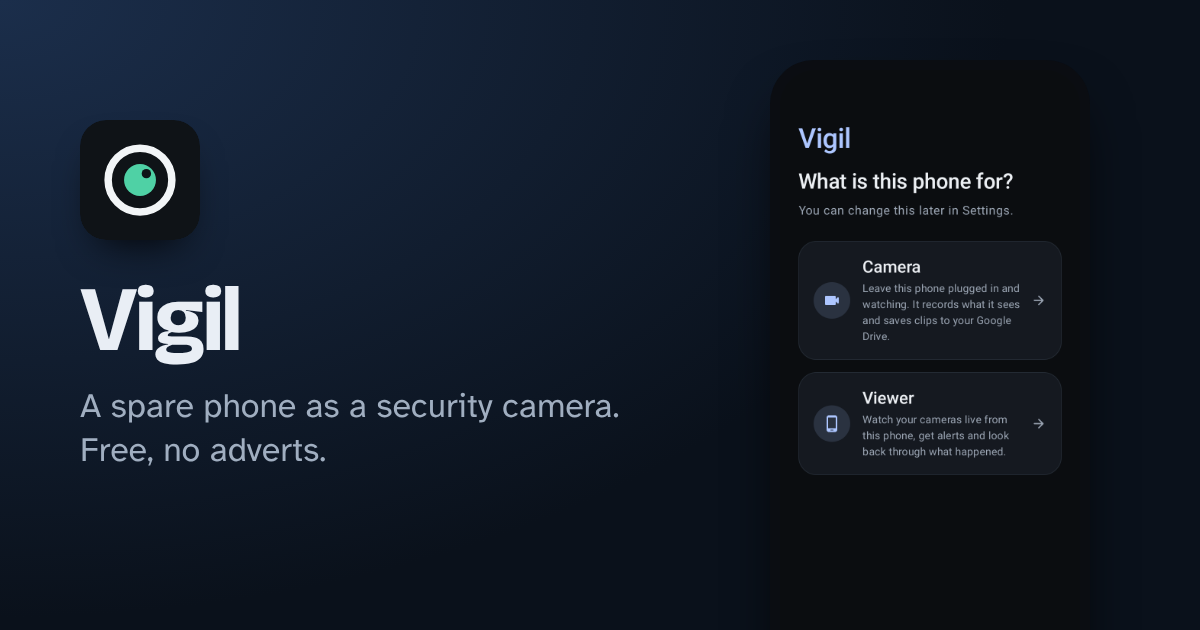
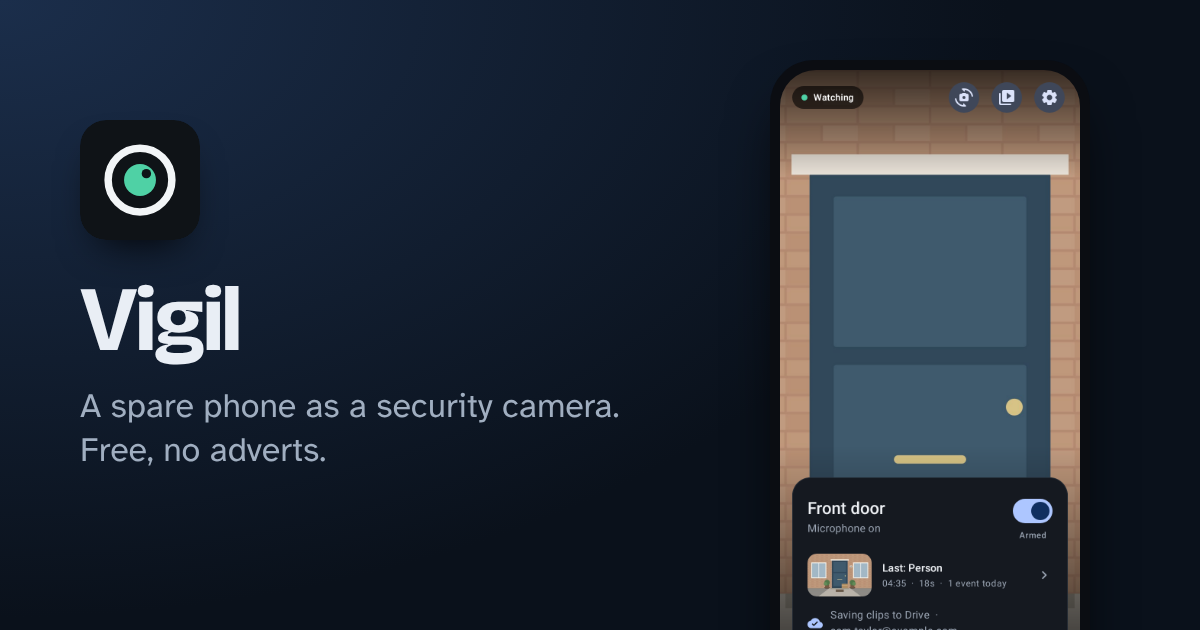
Gallery: the camera, viewer and live screens

Changed region(s): [[0.6475, 0.0905, 0.925, 1.0]]

diff --git a/index.html b/index.html
@@ -17,7 +17,7 @@
 <meta property="og:image" content="https://customgpter.github.io/vigil/assets/og.png">
 <meta property="og:image:width" content="1200">
 <meta property="og:image:height" content="630">
-<meta property="og:image:alt" content="Vigil&#x27;s first screen, choosing whether this phone is a camera or a viewer">
+<meta property="og:image:alt" content="Vigil on a spare phone, watching a front door">
 <meta property="og:locale" content="en_GB">
 <meta name="twitter:card" content="summary_large_image">
 <link rel="icon" href="./assets/favicon.svg" type="image/svg+xml">
@@ -52,7 +52,7 @@
 <p class="facts">Free, with nothing to unlock. No adverts, no account with the developer, no tracking. <a href="compare.html">Compare</a> or read the <a href="releases.html">release notes</a>.</p>
 <p class="facts">Chrome may say the file might be harmful. It shows this for app files that do not come from Google Play. Choose Download anyway.</p>
 </div>
-<div class="hero-phone"><div class="phone"><img src="./assets/screens/role.png" alt="First, choose whether this phone is a camera or a viewer." width="393" height="852" fetchpriority="high"></div></div>
+<div class="hero-phone"><div class="phone"><img src="./assets/screens/camera.png" alt="The camera phone at work: armed, with its latest event and where clips are saved." width="393" height="852" fetchpriority="high"></div></div>
 </div>
 </div>
 
@@ -63,8 +63,8 @@
 <section id="screens" aria-labelledby="screens-h">
 <div class="wrap">
 <h2 id="screens-h">A look inside</h2>
-<p class="intro">These are the real screens, drawn from the app&#x27;s own code. The camera and live views need a real camera, so they are not shown. Swipe or scroll sideways to see them all.</p>
-<div class="gallery" tabindex="0" role="region" aria-label="Screens from Vigil"><figure class="shot"><div class="phone"><img src="./assets/screens/role.png" alt="First, choose whether this phone is a camera or a viewer." width="393" height="852" loading="eager" decoding="async"></div><figcaption>First, choose whether this phone is a camera or a viewer.</figcaption></figure><figure class="shot"><div class="phone"><img src="./assets/screens/permissions.png" alt="The permissions a camera needs, and why." width="393" height="852" loading="eager" decoding="async"></div><figcaption>The permissions a camera needs, and why.</figcaption></figure><figure class="shot"><div class="phone"><img src="./assets/screens/signin.png" alt="Sign in to your own Google Drive, or skip it for now." width="393" height="852" loading="eager" decoding="async"></div><figcaption>Sign in to your own Google Drive, or skip it for now.</figcaption></figure><figure class="shot"><div class="phone"><img src="./assets/screens/camera-settings.png" alt="A camera&#x27;s settings: what it is for and what to detect." width="393" height="852" loading="eager" decoding="async"></div><figcaption>A camera&#x27;s settings: what it is for and what to detect.</figcaption></figure><figure class="shot"><div class="phone"><img src="./assets/screens/licences.png" alt="The open-source parts inside Vigil." width="393" height="852" loading="eager" decoding="async"></div><figcaption>The open-source parts inside Vigil.</figcaption></figure></div>
+<p class="intro">These are the real screens, drawn from the app&#x27;s own code. The camera pictures in them are made up. Swipe or scroll sideways to see them all.</p>
+<div class="gallery" tabindex="0" role="region" aria-label="Screens from Vigil"><figure class="shot"><div class="phone"><img src="./assets/screens/camera.png" alt="The camera phone at work: armed, with its latest event and where clips are saved." width="393" height="852" loading="eager" decoding="async"></div><figcaption>The camera phone at work: armed, with its latest event and where clips are saved.</figcaption></figure><figure class="shot"><div class="phone"><img src="./assets/screens/viewer.png" alt="Your cameras on the viewer phone, each with its latest picture." width="393" height="852" loading="eager" decoding="async"></div><figcaption>Your cameras on the viewer phone, each with its latest picture.</figcaption></figure><figure class="shot"><div class="phone"><img src="./assets/screens/live.png" alt="Live view: arm it, sound the siren, flash the torch, talk back or play a phrase." width="393" height="852" loading="eager" decoding="async"></div><figcaption>Live view: arm it, sound the siren, flash the torch, talk back or play a phrase.</figcaption></figure><figure class="shot"><div class="phone"><img src="./assets/screens/role.png" alt="First, choose whether this phone is a camera or a viewer." width="393" height="852" loading="eager" decoding="async"></div><figcaption>First, choose whether this phone is a camera or a viewer.</figcaption></figure><figure class="shot"><div class="phone"><img src="./assets/screens/permissions.png" alt="The permissions a camera needs, and why." width="393" height="852" loading="eager" decoding="async"></div><figcaption>The permissions a camera needs, and why.</figcaption></figure><figure class="shot"><div class="phone"><img src="./assets/screens/signin.png" alt="Sign in to your own Google Drive, or skip it for now." width="393" height="852" loading="eager" decoding="async"></div><figcaption>Sign in to your own Google Drive, or skip it for now.</figcaption></figure><figure class="shot"><div class="phone"><img src="./assets/screens/camera-settings.png" alt="A camera&#x27;s settings: what it is for and what to detect." width="393" height="852" loading="eager" decoding="async"></div><figcaption>A camera&#x27;s settings: what it is for and what to detect.</figcaption></figure><figure class="shot"><div class="phone"><img src="./assets/screens/licences.png" alt="The open-source parts inside Vigil." width="393" height="852" loading="eager" decoding="async"></div><figcaption>The open-source parts inside Vigil.</figcaption></figure></div>
 </div>
 </section>
 

diff --git a/404.html b/404.html
@@ -17,7 +17,7 @@
 <meta property="og:image" content="https://customgpter.github.io/vigil/assets/og.png">
 <meta property="og:image:width" content="1200">
 <meta property="og:image:height" content="630">
-<meta property="og:image:alt" content="Vigil&#x27;s first screen, choosing whether this phone is a camera or a viewer">
+<meta property="og:image:alt" content="Vigil on a spare phone, watching a front door">
 <meta property="og:locale" content="en_GB">
 <meta name="twitter:card" content="summary_large_image">
 <link rel="icon" href="/vigil/assets/favicon.svg" type="image/svg+xml">

diff --git a/compare.html b/compare.html
@@ -17,7 +17,7 @@
 <meta property="og:image" content="https://customgpter.github.io/vigil/assets/og.png">
 <meta property="og:image:width" content="1200">
 <meta property="og:image:height" content="630">
-<meta property="og:image:alt" content="Vigil&#x27;s first screen, choosing whether this phone is a camera or a viewer">
+<meta property="og:image:alt" content="Vigil on a spare phone, watching a front door">
 <meta property="og:locale" content="en_GB">
 <meta name="twitter:card" content="summary_large_image">
 <link rel="icon" href="./assets/favicon.svg" type="image/svg+xml">

diff --git a/licences.html b/licences.html
@@ -17,7 +17,7 @@
 <meta property="og:image" content="https://customgpter.github.io/vigil/assets/og.png">
 <meta property="og:image:width" content="1200">
 <meta property="og:image:height" content="630">
-<meta property="og:image:alt" content="Vigil&#x27;s first screen, choosing whether this phone is a camera or a viewer">
+<meta property="og:image:alt" content="Vigil on a spare phone, watching a front door">
 <meta property="og:locale" content="en_GB">
 <meta name="twitter:card" content="summary_large_image">
 <link rel="icon" href="./assets/favicon.svg" type="image/svg+xml">

diff --git a/privacy.html b/privacy.html
@@ -17,7 +17,7 @@
 <meta property="og:image" content="https://customgpter.github.io/vigil/assets/og.png">
 <meta property="og:image:width" content="1200">
 <meta property="og:image:height" content="630">
-<meta property="og:image:alt" content="Vigil&#x27;s first screen, choosing whether this phone is a camera or a viewer">
+<meta property="og:image:alt" content="Vigil on a spare phone, watching a front door">
 <meta property="og:locale" content="en_GB">
 <meta name="twitter:card" content="summary_large_image">
 <link rel="icon" href="./assets/favicon.svg" type="image/svg+xml">

diff --git a/releases.html b/releases.html
@@ -17,7 +17,7 @@
 <meta property="og:image" content="https://customgpter.github.io/vigil/assets/og.png">
 <meta property="og:image:width" content="1200">
 <meta property="og:image:height" content="630">
-<meta property="og:image:alt" content="Vigil&#x27;s first screen, choosing whether this phone is a camera or a viewer">
+<meta property="og:image:alt" content="Vigil on a spare phone, watching a front door">
 <meta property="og:locale" content="en_GB">
 <meta name="twitter:card" content="summary_large_image">
 <link rel="icon" href="./assets/favicon.svg" type="image/svg+xml">

diff --git a/terms.html b/terms.html
@@ -17,7 +17,7 @@
 <meta property="og:image" content="https://customgpter.github.io/vigil/assets/og.png">
 <meta property="og:image:width" content="1200">
 <meta property="og:image:height" content="630">
-<meta property="og:image:alt" content="Vigil&#x27;s first screen, choosing whether this phone is a camera or a viewer">
+<meta property="og:image:alt" content="Vigil on a spare phone, watching a front door">
 <meta property="og:locale" content="en_GB">
 <meta name="twitter:card" content="summary_large_image">
 <link rel="icon" href="./assets/favicon.svg" type="image/svg+xml">
